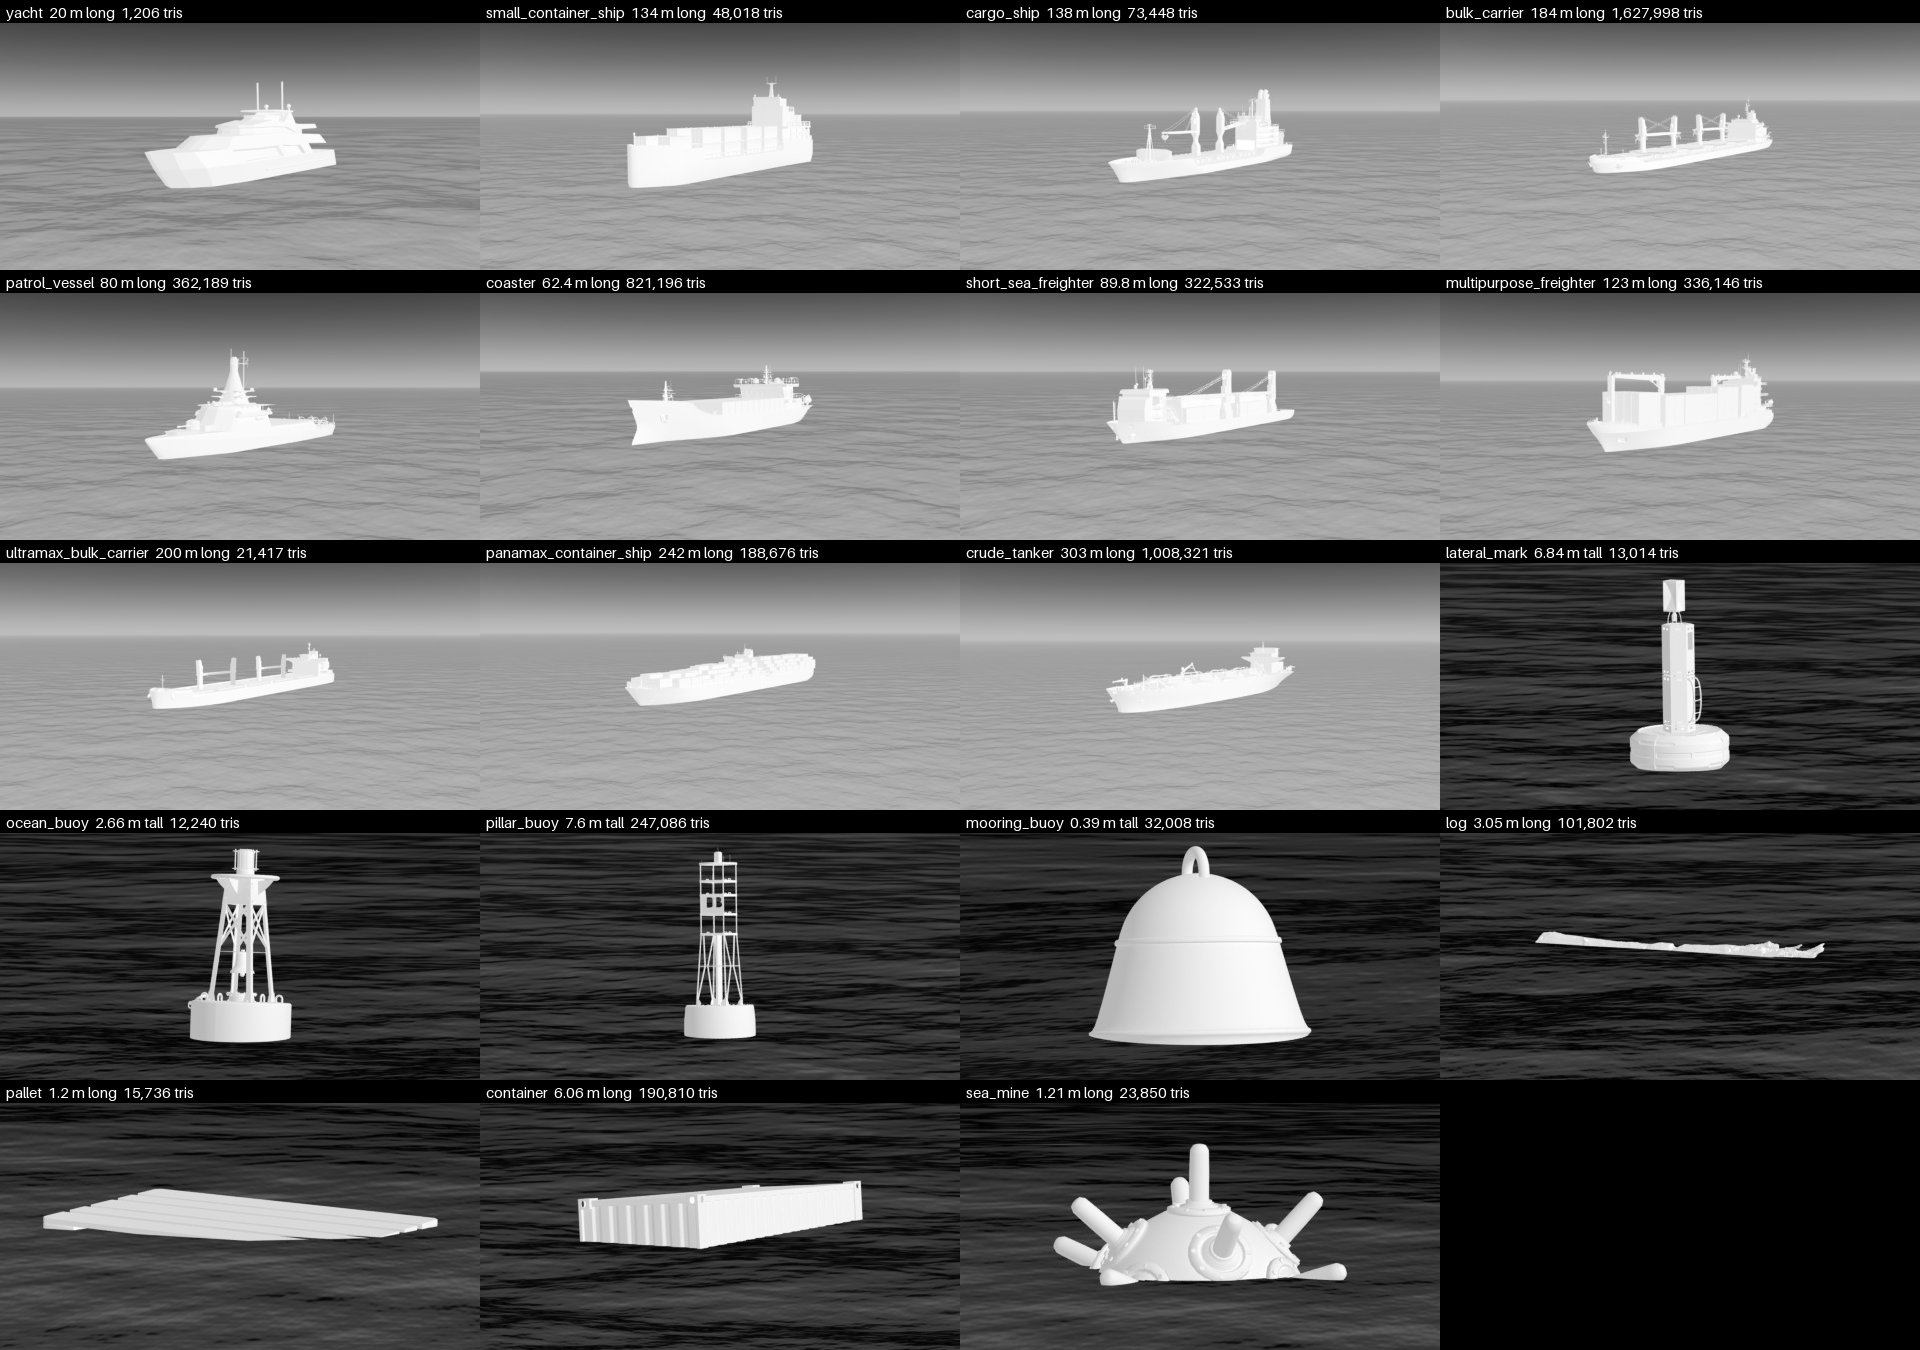
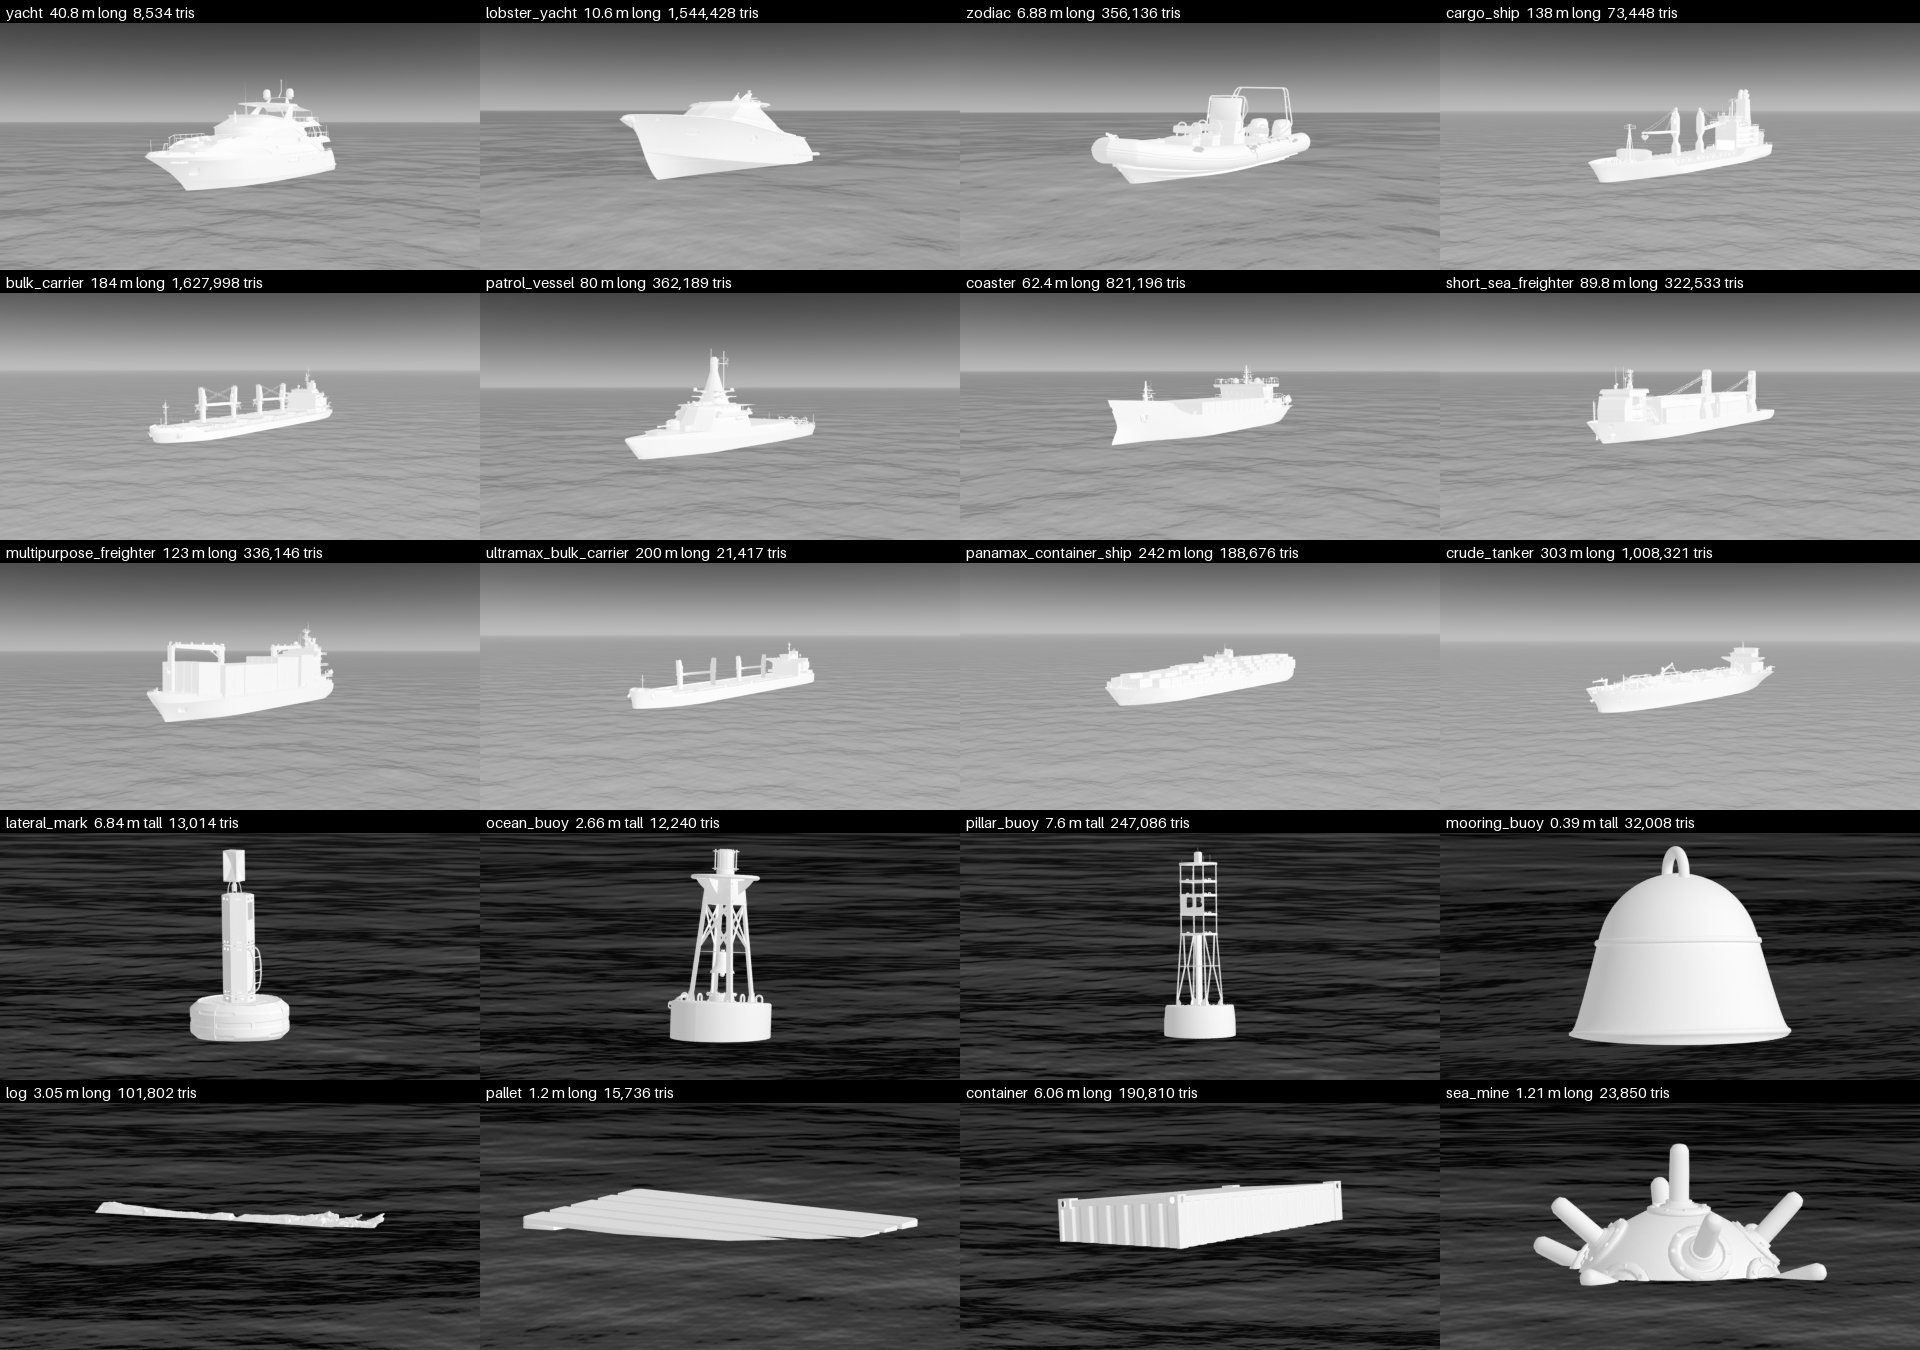
feat: a realistic motor yacht, a lobster yacht and a zodiac; the small container ship goes

diff --git a/tests/test_render.py b/tests/test_render.py
@@ -409,7 +409,7 @@ def test_only_an_lwir_jpg_drops_a_hull_lost_in_the_sea(
     scenario = variant(
         cameras={"ir": {"width_px": 160, "height_px": 128}},
         # The far hull reads as warm as the sea behind it.
-        objects=[target("yacht", 300.0), target("yacht", 1000.0, 4.0, t_k=274.0)],
+        objects=[target("yacht", 300.0), target("yacht", 2000.0, 4.0, t_k=274.0)],
         sky={"solar_gain_k": 0.0},
         outputs={"bands": ["ir"], "samples": {"ir": 4}, "format": fmt},
     )

diff --git a/tests/test_scene.py b/tests/test_scene.py
@@ -1550,7 +1550,8 @@ def test_a_target_inside_the_ownship_is_refused() -> None:
 def test_the_ownship_is_indexed_after_every_target() -> None:
     built = scene.build(
         variant(
-            objects=[target("yacht", 900.0)], ownship={"asset": "small_container_ship"}
+            objects=[target("yacht", 900.0)],
+            ownship={"asset": "panamax_container_ship"},
         ),
         "eo",
     )
